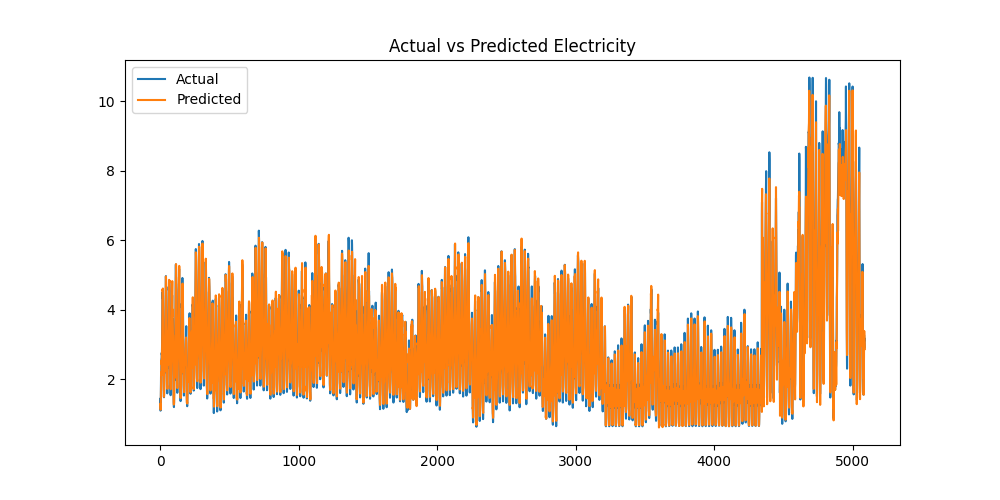
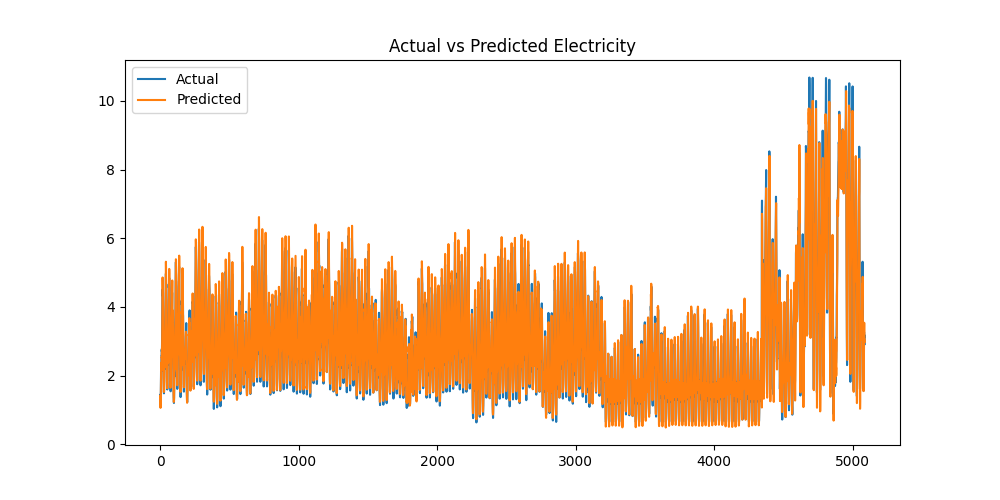
made changes to the LSTM model to ouput the predicted value from random time step sequence

diff --git a/main.py b/main.py
@@ -12,7 +12,7 @@ from tensorflow.keras.callbacks import EarlyStopping
 import os
 
 # Train model- True. Load model-False.
-TRAIN_MODEL = True
+TRAIN_MODEL = False
 
 #Loading datasets
 files = [
@@ -200,3 +200,25 @@ if history is not None:
     plt.close()
 
 print("\n✅ Model training, evaluation, and plots completed successfully.")
+
+# pick random starting index
+start_idx = np.random.randint(0, len(series) - TIME_STEPS - 1)
+
+# slice 168 hours
+random_168 = series.values[start_idx : start_idx + TIME_STEPS]
+
+# actual next value
+actual_next = series.values[start_idx + TIME_STEPS]
+
+# scale
+random_scaled = scaler.transform(random_168.reshape(-1, 1))
+random_scaled = random_scaled.reshape(1, TIME_STEPS, 1)
+
+# predict
+pred_scaled = model.predict(random_scaled)
+pred = scaler.inverse_transform(pred_scaled)
+
+print("\n📊 RANDOM WINDOW PREDICTION")
+print(f"Start Index: {start_idx}")
+print(f"Predicted: {pred[0][0]:.2f} kW")
+print(f"Actual   : {actual_next:.2f} kW")
